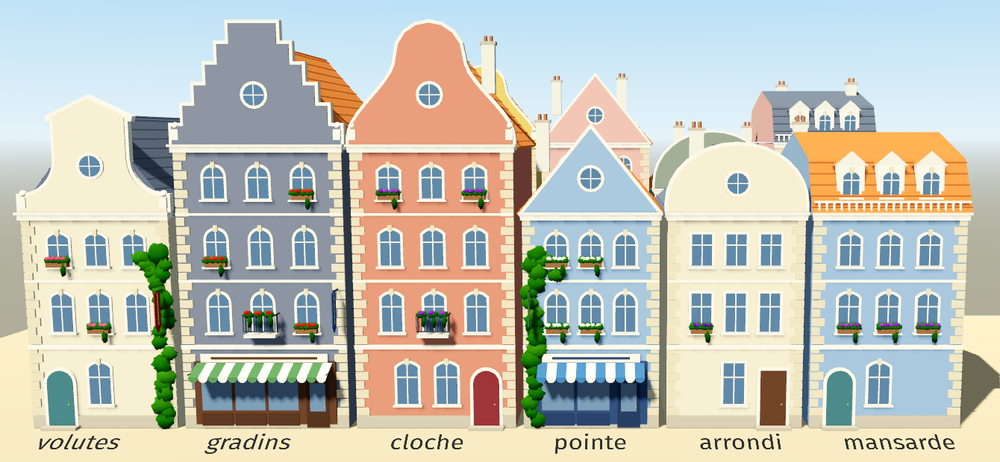
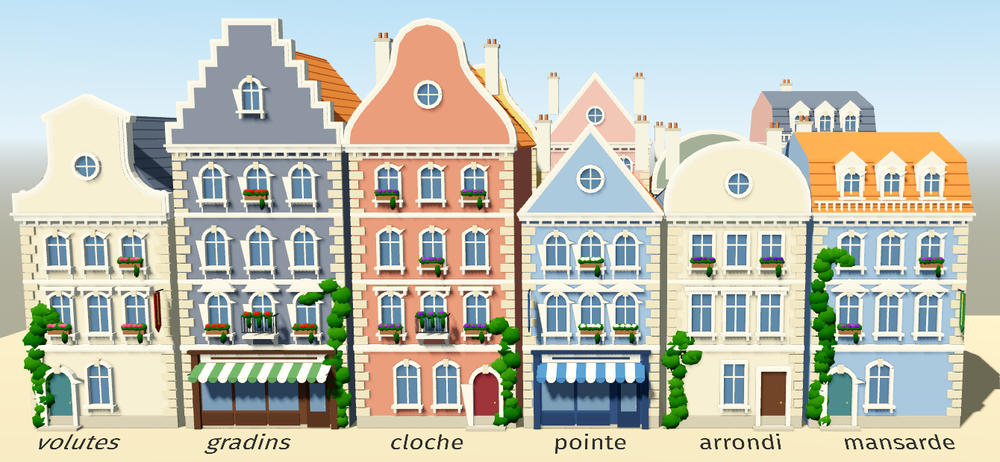
Façadier des Flandres : du relief aux façades
Retour de Guillaume : les façades manquaient de relief.
- Les baies se creusent : verre au nu du mur, encadrement saillant de 0,24 m
  et ses tableaux dans l'ombre ; croisée en retrait ; appui sur deux consoles.
- Frontons au premier étage (triangle, cintre ou corniche sur consoles).
- Bandeaux à deux ressauts, corniche à modillons, chaînes d'angle saillantes.
- Ordonnance tirée par la graine : pilastres entre les travées, tables en creux
  sous les appuis, ou mur nu (option « ordonnance »).
- Rez-de-chaussée en pierre à bossages, interrompus par les baies ; porte en
  retrait dans un encadrement profond ; devanture à pilastres et corniche.
- Balcons sur consoles, pignon mouluré en trois ressauts, oculus encadré.
- planche_place.gd : la vue « detail », la rangée en enfilade.

Claude-Session: https://claude.ai/code/session_01DJ1usffUoDo3bogmr9DKqH

diff --git a/docs/BIBLIOTHEQUE.md b/docs/BIBLIOTHEQUE.md
@@ -193,9 +193,9 @@ Trois décors tirés de l'inspiration d'ambiance de Guillaume (29 octobre 2026 :
 
 - **`arbres-de-place@1`** (`espece`, `graine`, `options`) : le tilleul rond, le bouleau blanc à taches noires (un ou deux troncs), le marronnier large et sombre, la boule taillée sur sa tige, l'if en cône. Options : `hauteur`, `pied` (`""`, `"grille"` de fonte, `"bordure"` de pierre fleurie), `fleurs` (hexa), `vent` (0 à 1). Métadonnées : `espece`, `graine`, `hauteur`, `couronne` (le rayon, pour espacer une rangée).
 - **`mobilier-de-place@1`** (`objet`, `graine`, `options`) : `fontaine` (deux marches, le bassin fleuri, quatre becs, la statue encapuchonnée qui tient un globe lumineux ; 9,2 m), `banc`, `lampadaire` (deux lanternes), `etal` (store à bandes et cagettes de primeurs), `charrette`, `tonneaux`, `caisses`, `terrasse` (table de bistrot, deux chaises et parasol), `corbeille`, `poteau` (indicateur à trois flèches), et les plantes : `jardiniere`, `pot` (buis taillé), `massif` (rosiers et petite haie). Le devant regarde +Z. Options : `fleurs`, `toile` (deux hexas), `statue` (faux : la fontaine sans statue), `allume` (faux : lanternes et globe éteints), `longueur` (banc, jardinière, massif). Métadonnées : `objet`, `graine`, `emprise`.
-- **`facadier-des-flandres@1`** (`type`, `graine`, `options`) : une maison de ville du nord par la forme de son pignon, `volutes`, `gradins`, `cloche`, `pointe`, `arrondi` ou `mansarde` (corniche droite, balustrade et lucarnes). La graine tire l'enduit (moutarde, saumon, bleu, gris vert, sauge, ardoise, rose, ocre, crème), la tuile orange ou l'ardoise, les fenêtres (droites, cintrées, en plein cintre), le rez-de-chaussée, les balcons de fer, les jardinières, le lierre, la bannière et les cheminées. Même repère que le façadier du Poitou : façade vers +Z, origine au pied de la façade, au milieu. Options : `w`, `d`, `niveaux` (1 à 4), `enduit` (un nom ou un hexa), `toit`, `rdc` (`boutique` à store rayé, `logis`, `passage` sous une voûte, `pierre` à bossages), `fenetres`, `balcons`, `lierre`, `banniere`, `fleurs`, `toile`, `fumee`. Métadonnées : `type`, `graine`, `w`, `d`, `hauteur` (au faîte), `porte`. On peut aussi l'appeler sans scène : `load(<dossier de la brique> + "facadier.gd").maison(parent, position, type, graine, options)`.
+- **`facadier-des-flandres@1`** (`type`, `graine`, `options`) : une maison de ville du nord par la forme de son pignon, `volutes`, `gradins`, `cloche`, `pointe`, `arrondi` ou `mansarde` (corniche droite, balustrade et lucarnes). La graine tire l'enduit (moutarde, saumon, bleu, gris vert, sauge, ardoise, rose, ocre, crème), la tuile orange ou l'ardoise, les fenêtres (droites, cintrées, en plein cintre), le rez-de-chaussée, les balcons de fer, les jardinières, le lierre, la bannière et les cheminées. Même repère que le façadier du Poitou : façade vers +Z, origine au pied de la façade, au milieu. Options : `w`, `d`, `niveaux` (1 à 4), `enduit` (un nom ou un hexa), `toit`, `rdc` (`boutique` à store rayé, `logis`, `passage` sous une voûte, `pierre` à bossages), `fenetres`, `ordonnance` (`pilastres`, `tables` sous les appuis, ou `nu`), `balcons`, `lierre`, `banniere`, `fleurs`, `toile`, `fumee`. Le relief se lit en enfilade : baies en retrait dans des encadrements de 0,24 m, appuis sur consoles, frontons (triangle, cintre ou corniche) au premier étage, bandeaux à deux ressauts, corniche à modillons, chaînes d'angle saillantes, bossages, pignon mouluré en trois ressauts. Métadonnées : `type`, `graine`, `w`, `d`, `hauteur` (au faîte), `porte`. On peut aussi l'appeler sans scène : `load(<dossier de la brique> + "facadier.gd").maison(parent, position, type, graine, options)`.
 
-Les planches et la place recomposée : `godot --path . -s tools/planche_place.gd -- --vue=arbres|mobilier|facadier|place|rue --capture=planche.png` (`place` bâtit une place entière avec les trois, `rue` la montre à hauteur d'œil).
+Les planches et la place recomposée : `godot --path . -s tools/planche_place.gd -- --vue=arbres|mobilier|facadier|detail|place|rue --capture=planche.png` (`detail` montre la rangée du façadier en enfilade, `place` bâtit une place entière avec les trois, `rue` la montre à hauteur d'œil).
 
 ## Proposer une brique
 
